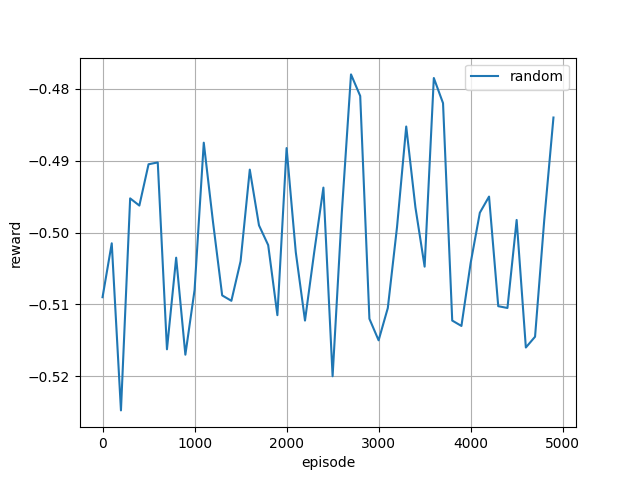
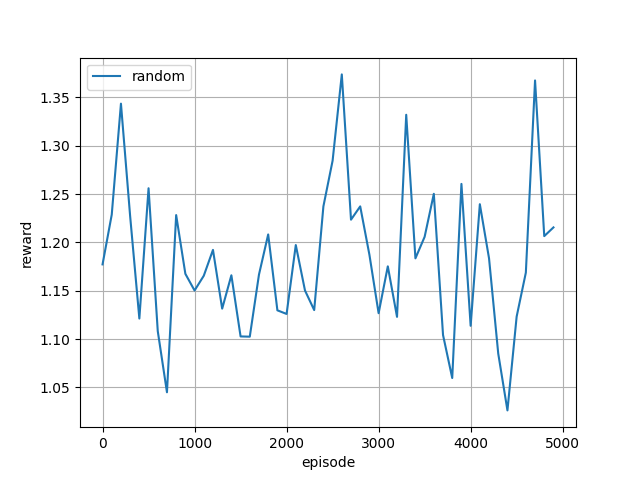
startingoptimization

diff --git a/Texas_hold_em/DQNAgent.py b/Texas_hold_em/DQNAgent.py
@@ -35,6 +35,7 @@ class ReplayMemory():
 
 class DQNAgent():
     def __init__(self, num_actions):
+        self.discount_factor_g = 0.9
         self.num_actions = num_actions
         self.use_raw = True
         self.policy_dqn = DQN(56, 56, num_actions)
@@ -96,9 +97,28 @@ class DQNAgent():
                 val += card[1]
         return val
 
-    def save_to_memory(self, ts):
-        self.replay_memory.append(ts)
+    def save_to_memory(self, transition):
+        self.replay_memory.append(transition)
 
     def feed(self, ts):
-        self.save_to_memory(ts)
+        (state, action, reward, next_state, done) = tuple(ts)
+        self.save_to_memory((state['obs'], action, reward, next_state['obs'], list(next_state['legal_actions'].keys()), done))
+        self.train()
         pass
+
+    def train(self):
+        current_q_list = []
+        target_q_list = []
+        to_train = self.replay_memory.sample(1000)
+        for state, action, reward, next_state, done, legal_actions in to_train:
+            if done:
+                target = torch.FloatTensor([reward])
+            else:
+                with torch.no_grad():
+                    target = torch.FloatTensor(
+                        reward + self.discount_factor_g * self.target_dqn(
+                            self.state_to_dqn_input(next_state).max())
+                    )
+
+
+

diff --git a/Texas_hold_em/hold_em_using_conservative.py b/Texas_hold_em/hold_em_using_conservative.py
@@ -51,7 +51,6 @@ def run(args):
             for ts in trajectories[0]:
                 agent.feed(ts)
 
-
             # Evaluate the performance. Play with random agents.
             if episode % args.evaluate_every == 0:
                 logger.log_performance(
@@ -117,10 +116,4 @@ if __name__ == '__main__':
         default='random',
         choices=[
             'dqn',
-            'nfsp',
-        ],
-    )
-
-    args = parser.parse_args()
-
-    run(args)
+            
